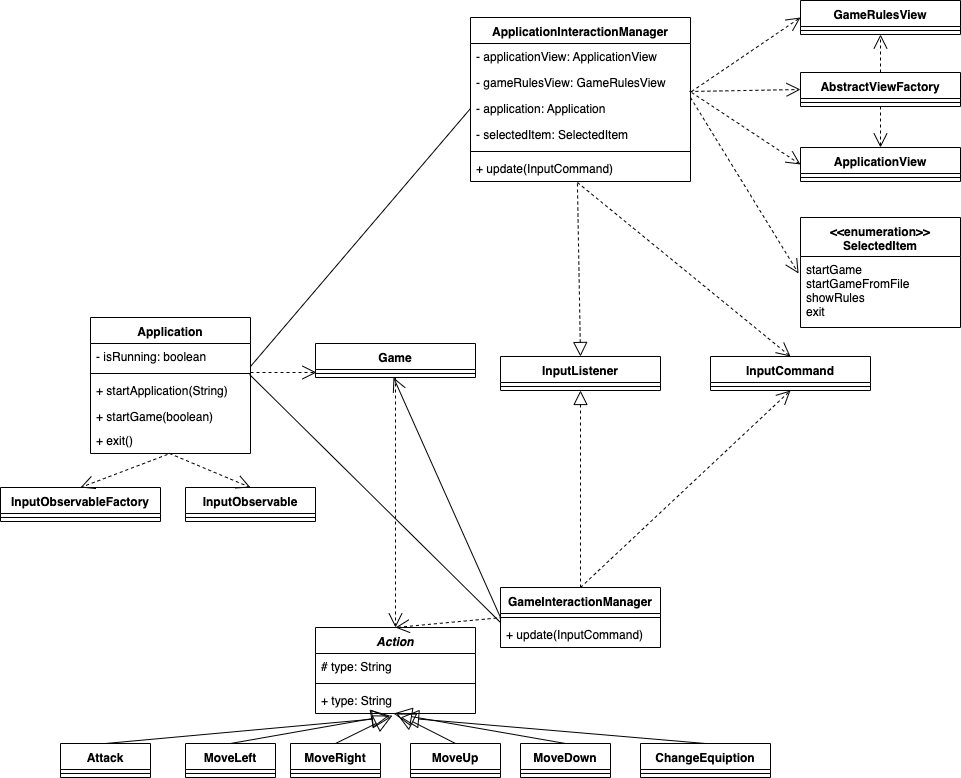
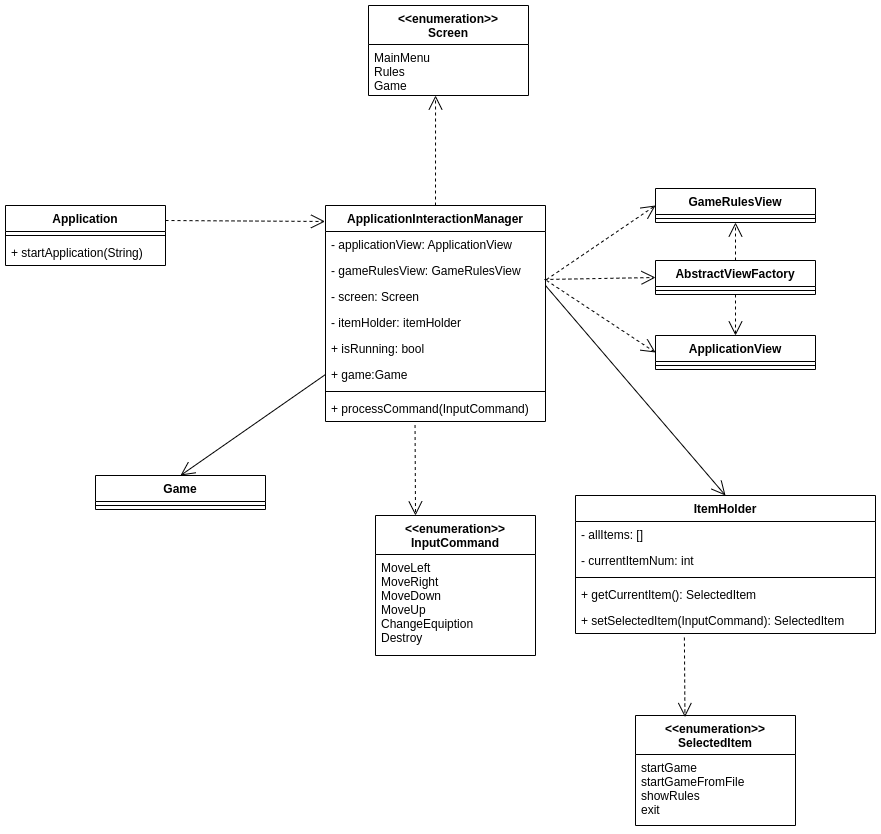
Fix documentation

diff --git a/architecture/ARCHITECTURE.md b/architecture/ARCHITECTURE.md
@@ -107,68 +107,29 @@
 <img src="images/components.png"/>
 
 Используется классическая слоистая архитектура, основной акцент сделан на выделение компонент в соответствии
-с архитектурным стилем **MVC**, но для обработки ввода была выделена отдельная компонента
+с архитектурным стилем **MVC**
 
 
-#### Описания компонент:
+#### Описаниe:
 
-- **Input manager** отвечает за получение пользовательского ввода и перенаправляет его в **Controller**
-- **Controller** отвечает за связь между собой остальных компонентов: обрабатывает ввод от пользователя,
-  передает полученные команды на выполнение в **Model** или во **View**
-- **Model** реализует логику игры: перемещает объекты на поле, реализует их взаимодействие друг с другом
-- **View** отвечает за графическое отображение игры
+**Controller**:
+
+- `input component` - отвечает за обработку пользователя
+- `interaction component` - отвечает за связь с остальными подсистемами
+
+**Model**:
+
+- `characterManager component` - отвечает за все связанное с игроками
+- `levelManager component` - отвечает за все связанное с уровнями
+- `gameManager component` - отвечает за связь уровней и в целом за всю игру
+
+**View**
+
+- `ApplicationView component` - отрисовка главного меню
+- `GameRulesView component` - отрисовка правил
+- `GameView component` - отрисовка самой игры
 
 ### Логическая структура
-
-#### Input manager
-Отвечает за получение, обработку и перенаправление пользовательского ввода.
-##### abstract class InputObservableFactory
-Абстрактная фабрика для создания наследников интерфейса `InputObservable`.
-При необходимости добавить новый источник ввода пользователю достаточно определить нового наследника для нее.
-
-**Методы**:
-
-- `createInputObservable(): InputObservable`
-
-
-**Реализация**:
-- **class ConsoleInputObservableFactory** - создает элемент типа `ConsoleInputObservable`
-
-##### interface InputObservable
-Интерфейс, определяющий методы для добавления, удаления и оповещения наблюдателей;
-
-**Методы**:
-+ `addListener(InputListener)` - добавление наблюдателя
-+ `removeListener(InputListener)` - удаление наблюдателя
-
-**Реализация**:
-- **class ConsoleInputObservable**
-
-##### interface InputListener
-Интерфейс, определяющий метод для получения оповещений.
-
-**Методы**:
-+ `update(InputCommand)` - оповещение наблюдателя о введении команды
-
-**Реализация**:
-- **class ApplicationInteractionManager**
-- **class GameInteractionManager**
-
-##### abstract class InputCommand
-Описывает команду, введенную пользователем.
-
-**Методы**:
-+ `type(): String` - возвращает тип команды.
-
-**Реализация**:
-- **class LeftCommand**
-- **class UpCommand**
-- **class RightCommand**
-- **class DownCommand**
-- **class EnterCommand**
-- **class ShiftCommand**
-##### Диаграмма:
-<img src="images/input_component.png"/>
 
 #### Controller
 Связь между компонентами и обработка комманд пользователя.
@@ -180,14 +141,22 @@
 
 + `startApplication(String)` - начинает работу приложения. На вход принимает путь до директории с конфигурационными файлами, описывающими уровни игры.
 
-+ `startGame(boolean)` - начинает игру. На вход принимает `true` в случае, если необходимо генерировать уровни по конфигурационным файлам, предоставленными пользователем, и `false` в ином случае.
+Внутри создается цикл, в котором при помощи средств библиотеки для работы с графикой считывается ввод пользователя, который далее передается в `InteractionManager`
 
-+ `exit()` - завершает работу приложения.
 
-Внутри себя создает `InputObservable` с помощью `InputObservableFactory`, чтобы следить за пользовательскими действиями в приложении.
+##### classItemHolder
 
-##### class ApplicationInteractionManager
-Реализует интерфейс `InputListener`. Следит за действиями пользователя в приложении и должным образом реагирует.
+**Поля**:
+
+- `List<SelectedItem> allItems` - список всех доступных опций
+- `int currentItemNumber` - индекс текущей опции в списке
+
+**Методы**:
+
+- `setSelectedItem(InputCommand inputCommand)` - меняет текущую опцию в зависимости от введенной команды
+- `SelectedItem getCurrentItem()` - возвращает текущую опцию
+
+##### class InteractionManager
 Зона ответственности включает в себя все действия пользователя вне самого игрового процесса, то есть
 действия на начальном экране (запрос на начало игры, запрос вывода правил, запрос на выход из приложения),
 а так же на экране с правилами игры.
@@ -198,35 +167,38 @@
 
 - `gameRulesView: ApplicationView` - необходим для отрисовки правил игры.
 
-- `application: Application` - необходим для передачи управления для начала игрового процесса, а так же выхода из приложения.
+- `Screen screen` - ткущее состояние приложения
 
-- `selectedItem: SelectedItem` - выделенная опций, на которой пользователь "стоит" в текущий момент.
+- `ItemHolder itemHolder` - хранит информацию о текущей опции в главном меню, осуществляет смену опций
+
+- `Game game` - объект игры
+
+- `boolean isRunning` - `true` пока пользователь не выбрал опцию `exit`
 
 **Методы**:
 
-+ `update: InputCommand` - данный метод вызывается каждый раз при введении пользователем той
++ `processCommand(InputCommand inputCommand)` - данный метод вызывается каждый раз при введении пользователем той
 или иной команды (по сути нажатием той или иной клавиши). В зависимости от команды и текущей выделенной
 опции может показать правила игры, осуществить выход из приложения, начать игру, выделить другую опцию.
-
-##### class GameInteractionManager
-Реализует интерфейс `InputListener`. Следит за действиями пользователя в момент самой игры и должным образом реагирует.
-Зона ответственности включает в себя все действия пользователя только в момент самого игрового процесса.
-
-**Методы**:
-
-+ `update: InputCommand` - данный метод вызывается каждый раз при введении пользователем той
-или иной команды (по сути нажатием той или иной клавиши). Введенная команда преобразуется в наследника
-класса `Action`, который затем передается в метод класса `Game`. Таким образом добавляется новый уровень абстракции между нажатыми в действительности
-клавишами и теми действиями, которые в них заложены.
-Например, часто за передвижение игрока помимо стрелок также отвечают клавиши WASD. В таком случае
-нажатие на клавишу W и на верхнюю стрелку переводится в единый класс `MoveUp`, являющийся наследником `Action`.
 
 ##### enumeration SelectedItem
 Опции главного экрана, одна из которых выделена в любой момент времени.
 
-##### abstract class Action
+**Элементы**
+- `Game`
+- `Rules`
+- `MainMenu`
+
+##### enumeration Action
 Отвечает за некоторое действие, совершенное в игре игроком.
-Наследники: `Attack`, `MoveLeft`, `MoveRight`, `MoveUp`, `MoveDown`, `ChangeEquiption`.
+**Элементы**
+
+- `Destroy`
+- `MoveLeft`
+- `MoveRight`
+- `MoveUp`
+- `MoveDown`
+- `ChangeEquiption`.
 
 ##### Диаграмма:
 <img src="images/controller_component.png"/>
@@ -258,6 +230,7 @@
 
 - `victory`
 - `defeat`
+- `isRunning`
 
 
 ##### class Game
@@ -335,9 +308,8 @@
 
 **Поля**:
 
-- `int[][] board` - поле уровня, некоторые объекты на котором заранее расставлены
-- `Map<int, Character> characters` - отображение из `id` в объект, который должен быть на поле
-- `List<int> charactersToPlace` - объекты, которые должны быть рандомно расположены при генерации уровня
+- `int xSize, int ySize` - размеры доски
+- `Map<CharacterType, int> characters` - информация о том сколько объектов какого типа должно быть на поле
 - `List<Pair<int, int>> emptyCells` - список еще не занятых клеток, в которые можно помещать объекты при рандомной генерации
 
 **Наследники**:
@@ -347,16 +319,6 @@
 - **class ThirdLevelCharacteristic**
 - **class FourthLevelCharacteristic**
 - **class FifthLevelCharacteristic**
-
-##### class FileUtils
-
-Класс для работы с файлами
-
-**Методы**:
-
-- `int [][] readBoard(String fileName)` - получает из файла двумерных массив, в клетках которого записаны
-`id` объектов, которые там находятся
-- `Map<int, Character> readCharacters(String fileName)` - получает из файла отображение из `id` в объект на поле
 
 ##### class LevelGenerator
 
@@ -374,20 +336,7 @@
 - `boolean hasNextLevel()` - если уровни генерируются рандомно, то проверяет, сгенерировано ли на данный момент
 меньше 5 уровней, если да, то возвращает `true`, иначе `false`. Если уровни генерируются из файлов пользователей, то
 проверяет, что есть еще не использованные файлы
-- `Level nextLevel()` - генерирует следующий уровень. В случае, если уровень генерируется из файла, использует `FileUtils`
-
-##### class LevelTimer
-
-Совершает действия на поле один раз в некоторый промежуток времени
-
-**Поля**:
-
-- `int secondsStep` - промежуток времени, раз в который необходимо совершать действие
-
-- `Runable runable`
-**Методы**:
-
-- `void startCountDown()` - запускает таймер и раз в `secondsStep` секунд вызывает метод `run` у `runable`
+- `Level nextLevel()` - генерирует следующий уровень
 
 ##### class Level
 
@@ -395,21 +344,18 @@
 
 **Поля**:
 
-- `int[][] board` - поле. Каждый элемент массива - `id` объекта, который находится в клетке с данными координатами
-- `Map<int, Character> characters` - все объекты, которые есть на поле
+- `Character[][] board` - поле. В клетке находится текущий `Character`
+- `Map<Enemy, Pair<int, int> characters` - враги, которые есть на поле
 - `GameView gameView` - объект для отрисовки на экране изменений на поле
-- `LevelTimer levelTimer` - запускает передвижение врагов раз в определенное количество секунд
 
 **Методы**:
 
-- `void Play()` - запускает внутри себя `levelTimer`, отвечает за передвижение на поле объектов, не контролируемых пользователем
-- `void movePlayer()` - передвижение игрока на поле
-- `void moveEnemies()` - передвижение врагов на поле
+- `void moveCharacters()` - передвижение игрока на поле и врагов (враги делают шаг на каждый ход игрока)
 - `void changeEquiption()` - изменение элемента инвентаря, который использует игрок
-- `void attackFromPlayer()` - атака игроком препятствия
+- `void destroyObstacle()` - разрушение игроком препятствия
 
 
-<img src="images/model_component.png"/>
+<img src="images/model_component.png">
 
 
 #### View
@@ -498,34 +444,11 @@
 обработки ввода пользователя была выделена для достижения большей платформонезависимости остальных компонент
 
 ### Библиотека для графического отображения:
+В итоге была выбрана библиотека [lanterna](https://github.com/mabe02/lanterna).
 
-На данный момент мы рассматриваем два варианта, у каждого имеются преимущества, окончательный выбор мы сделаем когда 
-начнем реализацию проекта
+Во-первых, она оказалась достаточно простой в использовании, варианты рассматриваемые ранее показались нам слишком сложные для игры с консольной графикой.
 
-1. [Swing](https://docs.oracle.com/javase/tutorial/uiswing/)
+Во-вторых, с помощью средств данной библиотеки оказалось возможным разделить логику ввода и отрисовки.
 
-Плюсы:
-
-- часть JDK, не нужно ставить дополнительных библиотек
-- есть туториалы и форумы с ответами на вопросы
-- встроенный редактор форм почти во всех средах разработки
-- поддержка различных стилей
-
-Минусы:
-- окно с множеством компонентов начинает подтормаживать
-- сложная работа с менеджерами компоновки
-
-2. [JavaFX](https://www.oracle.com/java/technologies/javase/javafx-overview.html)
-
-Плюсы:
-- быстрая работа за счет графического конвейера
-- множество различных компонентов
-- поддержка стилей
-- утилиты для создания установщика программы
-- приложение можно запускать как десктопное и в браузере как часть страницы
-
-Минусы:
-- фреймворк еще разрабатывается, иногда можно поймать баги
-- JavaFX пока не очень широко распространен
 
 
